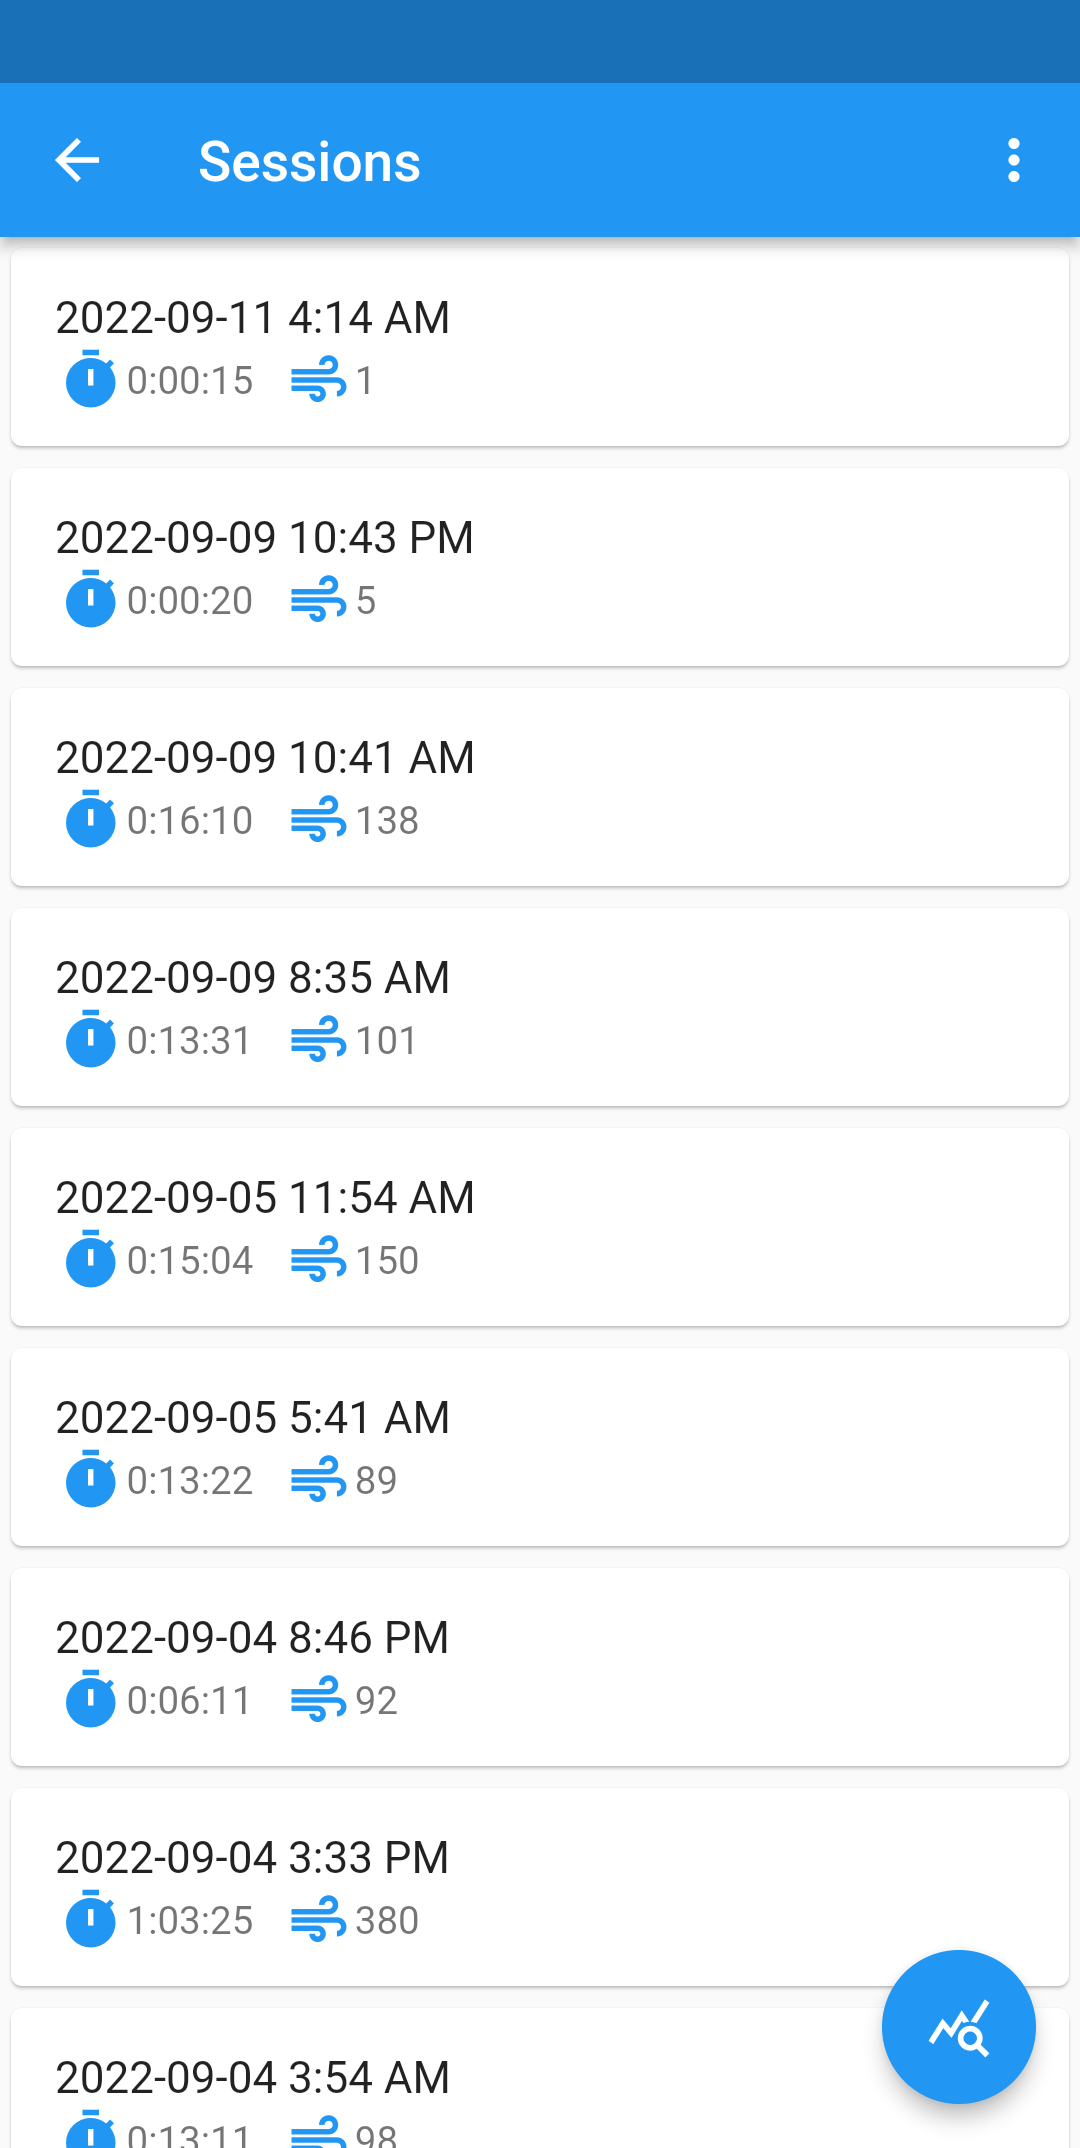
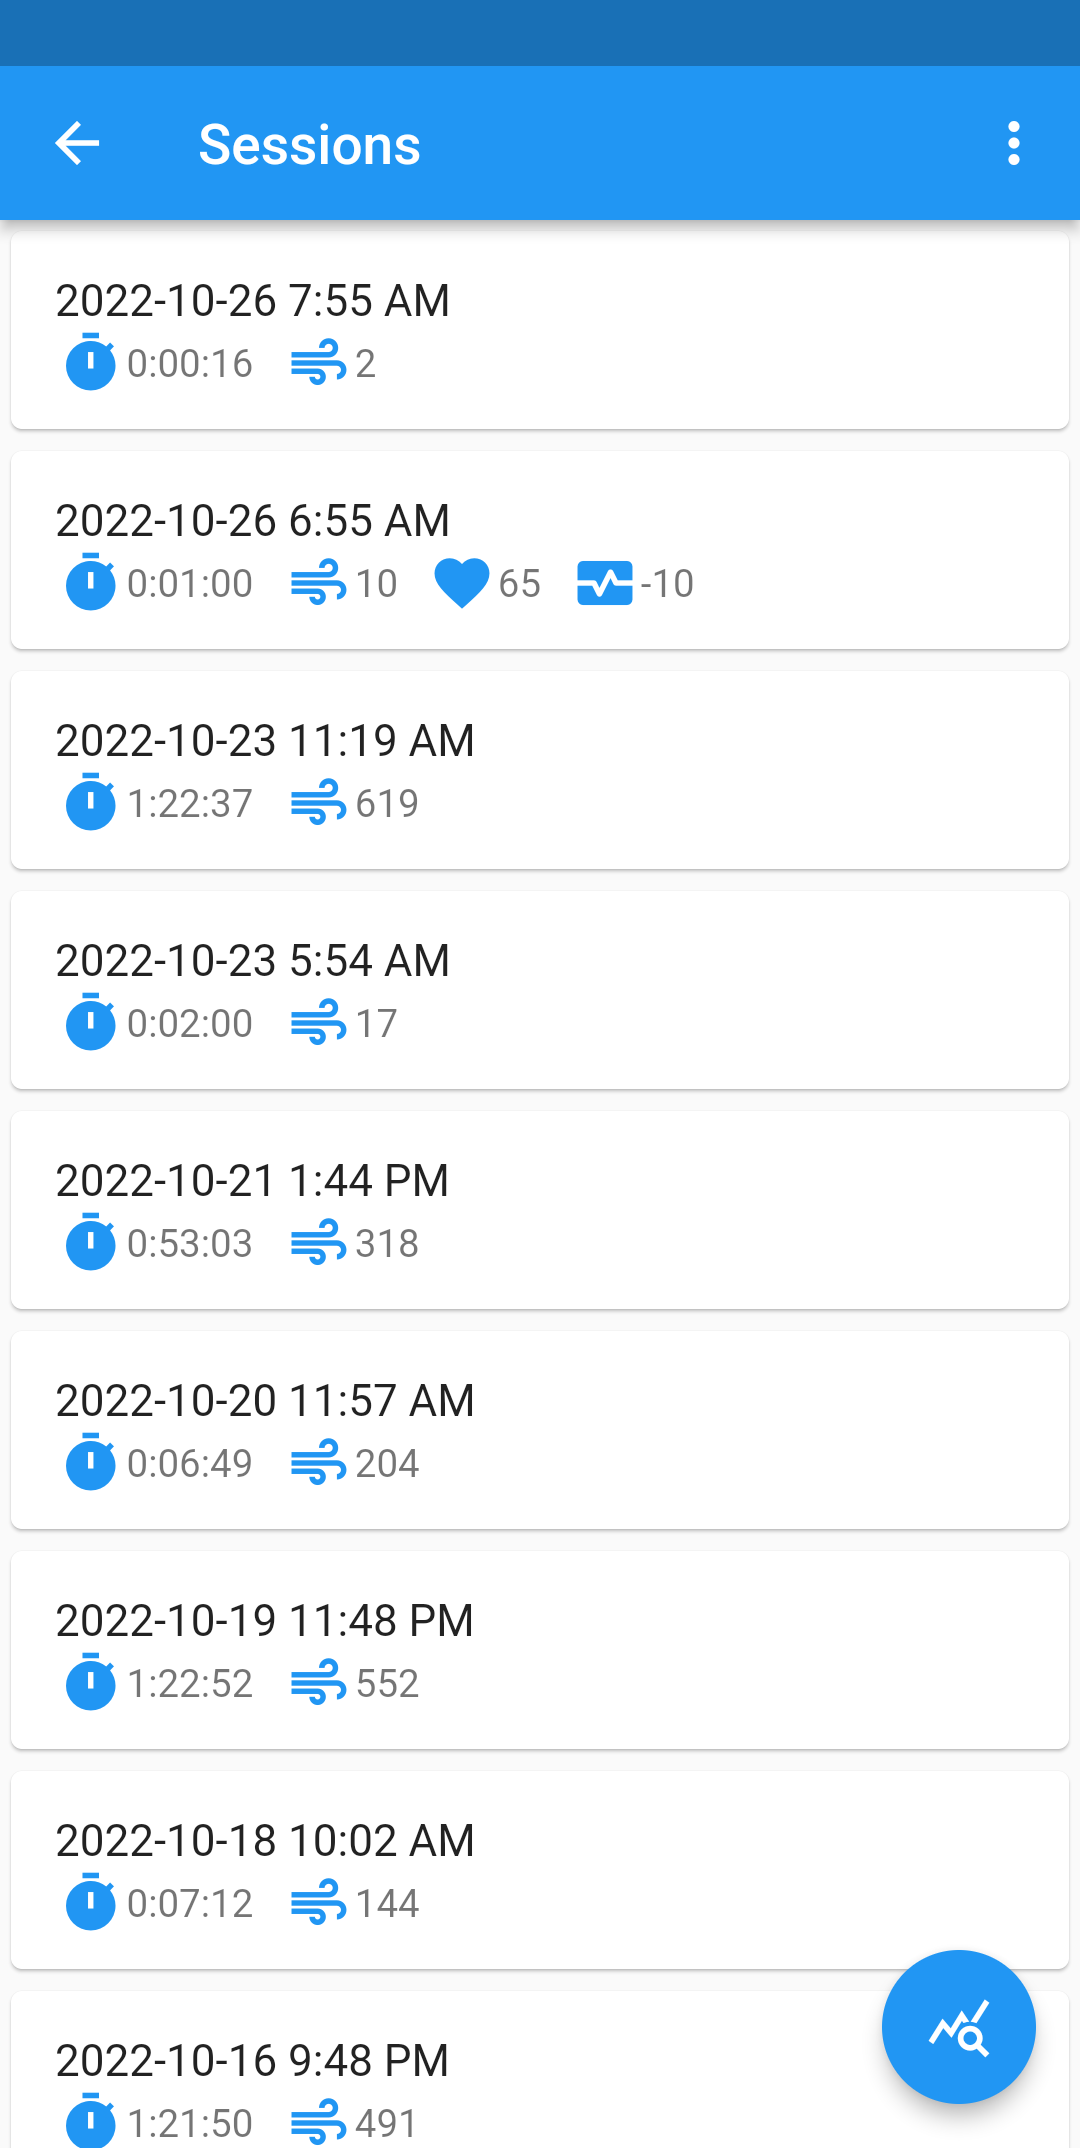
#69: Support heart rate

diff --git a/lib/utils.dart b/lib/utils.dart
@@ -73,7 +73,7 @@ Future<void> createRandomSessions(
   Session session;
   List<Session> list = sessions.values.toList().cast<Session>();
 
-  while (list.length < length) {
+  while (list.length < length - 1) {
     mockStart = _mockDate(start, end);
     mockEnd = _mockDate(
         mockStart, mockStart.add(Duration(seconds: random.nextInt(120 * 60))));
@@ -87,11 +87,14 @@ Future<void> createRandomSessions(
   }
 
   // Add heartrate session
-  session = Session(start: DateTime.now());
-  session.end = session.start.add(const Duration(seconds: 60));
-  session.breaths = 10;
-  session.heartrates = [70, 69, 68, 67, 66, 65, 64, 63, 62, 61, 60];
-  list.add(session);
+  if (list.length < length) {
+    session =
+        Session(start: DateTime.now().subtract(const Duration(minutes: 60)));
+    session.end = session.start.add(const Duration(seconds: 60));
+    session.breaths = 10;
+    session.heartrates = [70, 69, 68, 67, 66, 65, 64, 63, 62, 61, 60];
+    list.add(session);
+  }
 
   list.sort((a, b) =>
       a.start.millisecondsSinceEpoch.compareTo(b.start.millisecondsSinceEpoch));
@@ -129,7 +132,8 @@ String getStats(
   DateTime end,
 ) {
   Duration totalDuration = const Duration(seconds: 0);
-  int totalSessions = 0, totalBreaths = 0;
+  int totalSessions = 0, totalBreaths = 0, average = 0;
+  List<int> averages = [];
 
   for (var item in list) {
     if ((item.start.compareTo(start) >= 0 && item.end.compareTo(end) <= 0)) {
@@ -137,10 +141,26 @@ String getStats(
       totalDuration += diff;
       totalBreaths += item.breaths;
       totalSessions += 1;
+      if (item.heartrates != null) {
+        int avg = item.heartrates!.average.toInt();
+        if (avg > 0) {
+          averages.add(avg);
+        }
+      }
     }
   }
 
-  return "${AppLocalizations.of(context).sessions}:$totalSessions ${AppLocalizations.of(context).duration}:${getDurationString(totalDuration)} ${AppLocalizations.of(context).breaths}:$totalBreaths";
+  String text =
+      "${AppLocalizations.of(context).sessions}:$totalSessions ${AppLocalizations.of(context).duration}:${getDurationString(totalDuration)} ${AppLocalizations.of(context).breaths}:$totalBreaths";
+
+  if (averages.isNotEmpty) {
+    average = averages.average.toInt();
+    if (average > 0) {
+      text += " ${AppLocalizations.of(context).heartrate}:$average";
+    }
+  }
+
+  return text;
 }
 
 String getStreak(

diff --git a/lib/sessions_widget.dart b/lib/sessions_widget.dart
@@ -4,6 +4,7 @@ import 'package:hive/hive.dart';
 import 'package:hive_flutter/hive_flutter.dart';
 import 'package:csv/csv.dart';
 import 'package:flutter_gen/gen_l10n/app_localizations.dart';
+import 'package:collection/collection.dart';
 
 import 'package:brethap/utils.dart';
 import 'package:brethap/constants.dart';
@@ -74,11 +75,14 @@ class _SessionsWidgetState extends State<SessionsWidget> {
     int added = 0;
     try {
       List<List<dynamic>> rows = [
-        ["start", "end", "breaths"]
+        ["start", "end", "breaths", "heartrate"]
       ];
       for (var element in list) {
+        List<double>? heartrates = element.heartrates;
+        heartrates ??= [0.0];
+        rows.add(
+            [element.start, element.end, element.breaths, heartrates.average]);
         added++;
-        rows.add([element.start, element.end, element.breaths]);
       }
       String csv = const ListToCsvConverter().convert(rows);
       final file = await _getExportFile();
@@ -115,6 +119,7 @@ class _SessionsWidgetState extends State<SessionsWidget> {
           Session session = Session(start: start);
           session.end = DateTime.parse(row[1]);
           session.breaths = row[2];
+          session.heartrates = [row[3]];
           _list.add(session);
           await widget.sessions.add(session);
           added++;

diff --git a/lib/home_widget.dart b/lib/home_widget.dart
@@ -9,6 +9,7 @@ import 'package:wakelock/wakelock.dart';
 import 'package:flutter_tts/flutter_tts.dart';
 import 'package:flutter_gen/gen_l10n/app_localizations.dart';
 import 'package:just_audio/just_audio.dart';
+import 'package:collection/collection.dart';
 import 'package:watch_connectivity/watch_connectivity.dart';
 
 import 'package:brethap/utils.dart';
@@ -225,6 +226,12 @@ class _HomeWidgetState extends State<HomeWidget> {
       text += ", $breaths ${AppLocalizations.of(context).breath}";
     } else {
       text += ", $breaths ${AppLocalizations.of(context).breaths}";
+    }
+    if (session.heartrates != null) {
+      int average = session.heartrates!.average.toInt();
+      if (average > 0) {
+        text += ", $average ${AppLocalizations.of(context).heartrate}";
+      }
     }
 
     if (preference.durationTts) {

diff --git a/integration_test/demo_test.dart b/integration_test/demo_test.dart
@@ -2,6 +2,8 @@
 // flutter test integration_test/demo_test.dart
 // To execute demo with screenshots saved run:
 // flutter drive --no-pub --driver=integration_test/driver.dart --target=integration_test/demo_test.dart
+// To execute demo script run:
+// ./screenshots/demo.sh emulator-5554
 
 import 'package:brethap/constants.dart';
 import 'package:brethap/home_widget.dart';
@@ -123,7 +125,7 @@ Future<void> main() async {
       // remove session
       Duration duration = const Duration(milliseconds: 500);
       double drag = 500;
-      finder = find.byKey(const Key('199'));
+      finder = find.byKey(const Key('200'));
       expect(finder, findsOneWidget);
       await tester.timedDrag(finder, Offset(drag, 0), duration);
       await tester.pump(wait * 2);
